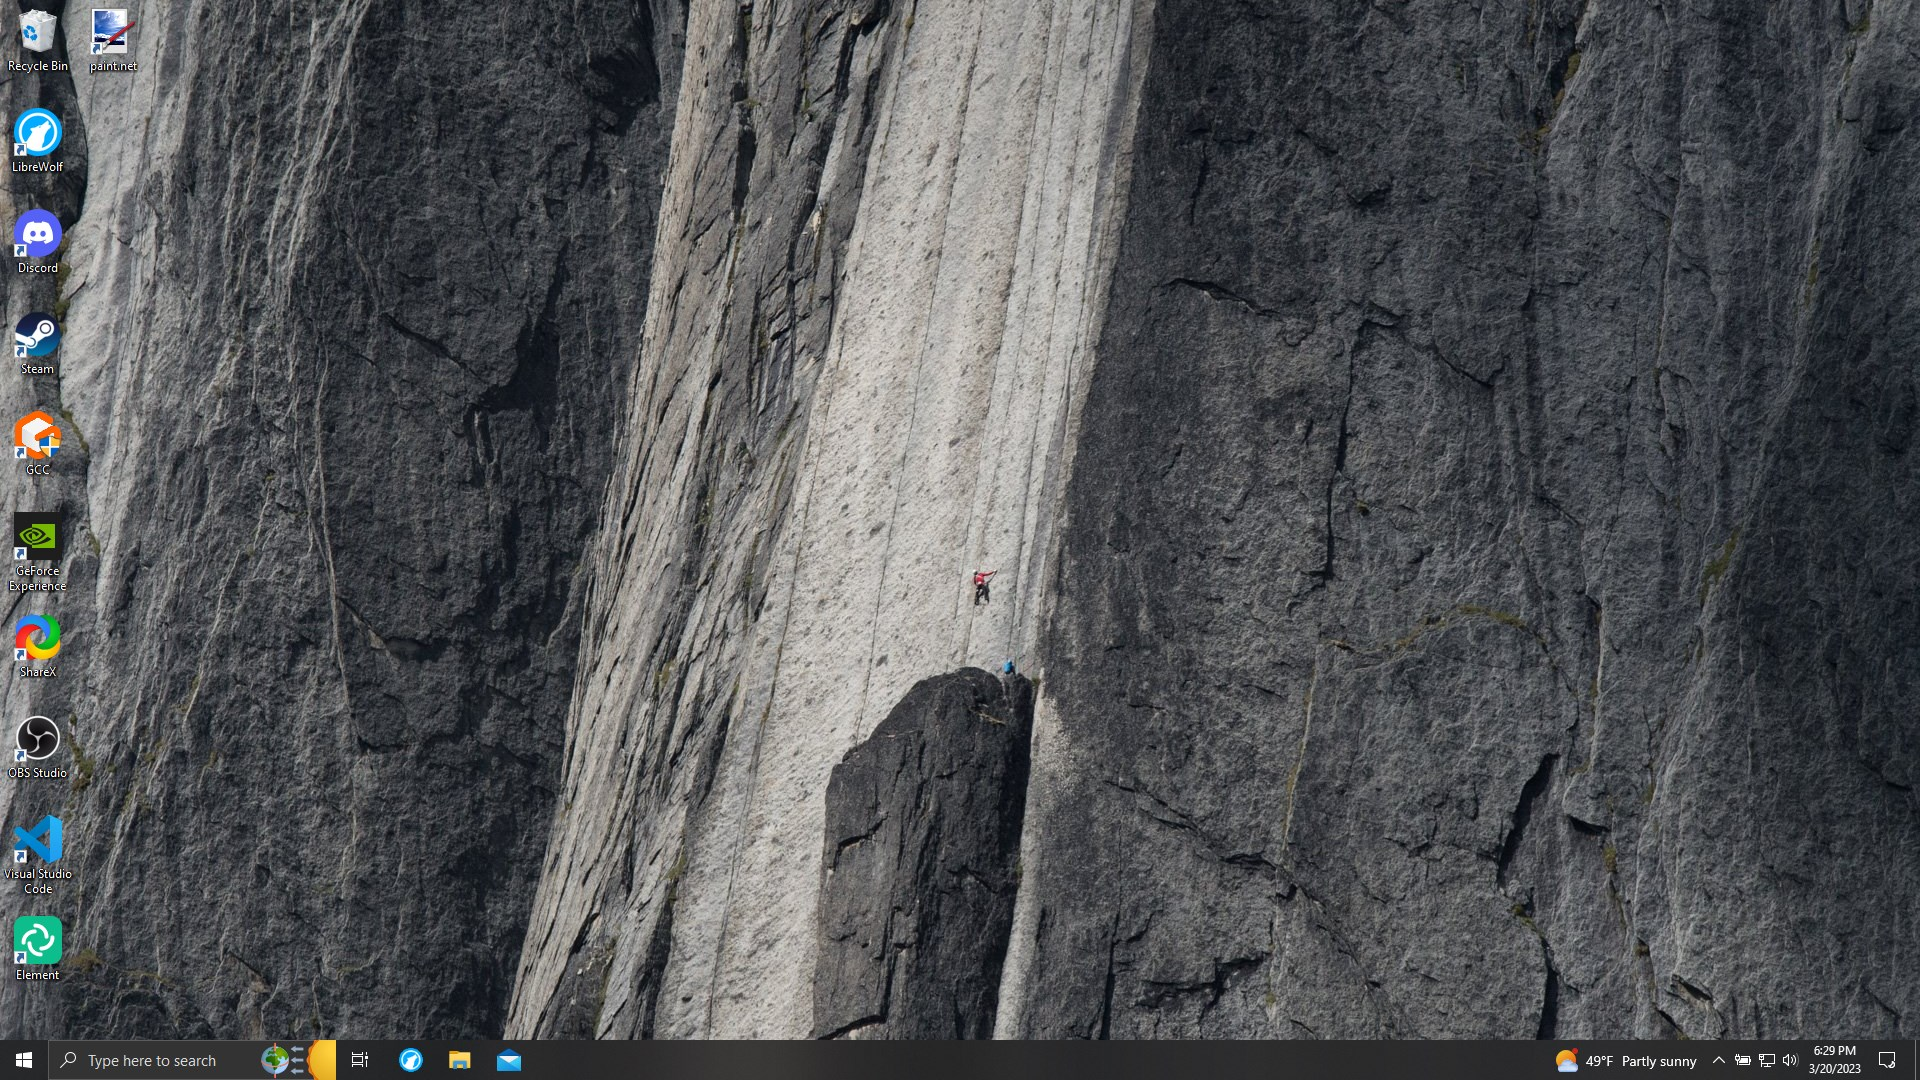
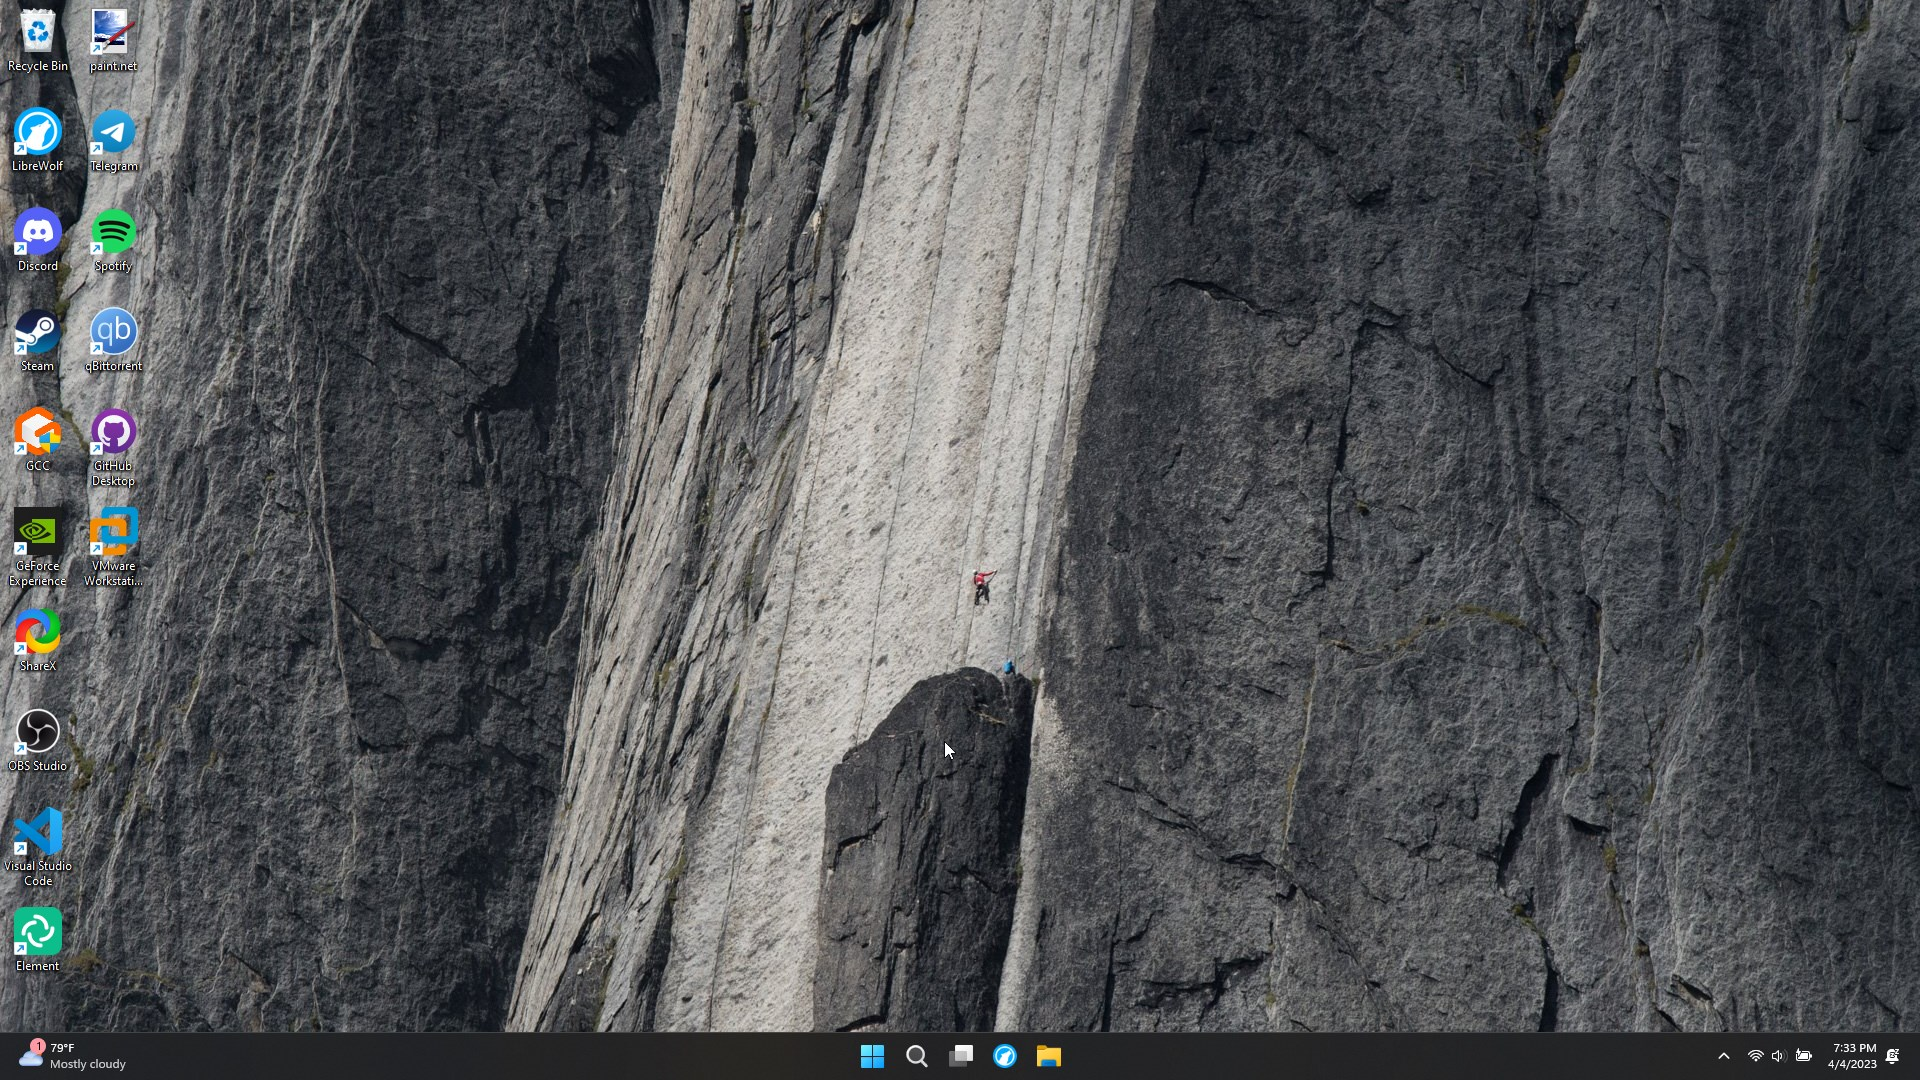
eleventh window

Changed region(s): [[0.0, 0.0917, 0.0938, 0.9167], [0.0, 0.9472, 1.0, 1.0], [0.0, 0.0, 0.0312, 0.0611]]

diff --git a/tmpl/computers.desktops.a5ke4.html b/tmpl/computers.desktops.a5ke4.html
@@ -1,7 +1,7 @@
 {%- extends 'base.html' -%}
 
 {%- block meta -%}
-	<meta name="description" content="The desktop images for my Gigabyte AORUS 5 KE4.">
+	<meta name="description" content="The desktop image(s) for my Gigabyte AORUS 5 KE4.">
 {%- endblock -%}
 
 {%- block sidebar -%}
@@ -9,8 +9,8 @@
 {%- endblock -%}
 
 {%- block content -%}
-<h3>Windows 10 Enterprise 22H2</h3>
+<h3>Windows 11 Enterprise 22H2</h3>
 
-<img class=img1 src=/static/desktops/a5ke4/desktop.jpg alt="Windows 10 desktop, Gigabyte AORUS 5 KE4" title="Windows 10 desktop, Gigabyte AORUS 5 KE4">
+<img class=img1 src=/static/desktops/a5ke4/desktop.jpg alt="Windows 11 desktop, Gigabyte AORUS 5 KE4" title="Windows 11 desktop, Gigabyte AORUS 5 KE4">
 
 {%- endblock -%}

diff --git a/tmpl/about.faq.html b/tmpl/about.faq.html
@@ -43,12 +43,12 @@
 <br><br>
 
 <p>Q: <em>Now what's your least favorite OS?</em></p>
-<p>A: Windows 11, ME, 1.01, and 2.03 in terms of Windows, Ubuntu in terms of Linux.</p>
+<p>A: Windows ME, 1.01, and 2.03 in terms of Windows, Ubuntu in terms of Linux.</p>
 
 <br><br>
 
 <p>Q: <em>What's your main machine?</em></p>
-<p>A: Gigabyte AORUS 5 KE4 laptop. i7-12700H, 64GB RAM, RTX 3060, 1TB SSD, Windows 10. More "in-depth" details can be found <a href=/computers>here</a>.</p>
+<p>A: Gigabyte AORUS 5 KE4 laptop. i7-12700H, 64GB RAM, RTX 3060, 1TB SSD, Windows 11. More "in-depth" details can be found <a href=/computers>here</a>.</p>
 
 <!-- more s o o n -->
 {%- endblock -%}

diff --git a/tmpl/computers.html b/tmpl/computers.html
@@ -62,7 +62,7 @@
 			<p>64GB (DDR4-3200, dual channel)</p>
 		</td>
 		<td>
-			<p>Windows 10 Enterprise 22H2</p>
+			<p>Windows 11 Enterprise 22H2</p>
 		</td>
 		<td>
 			<p>1920x1080 (240hz) & 1920x1080 (75hz)</p>
